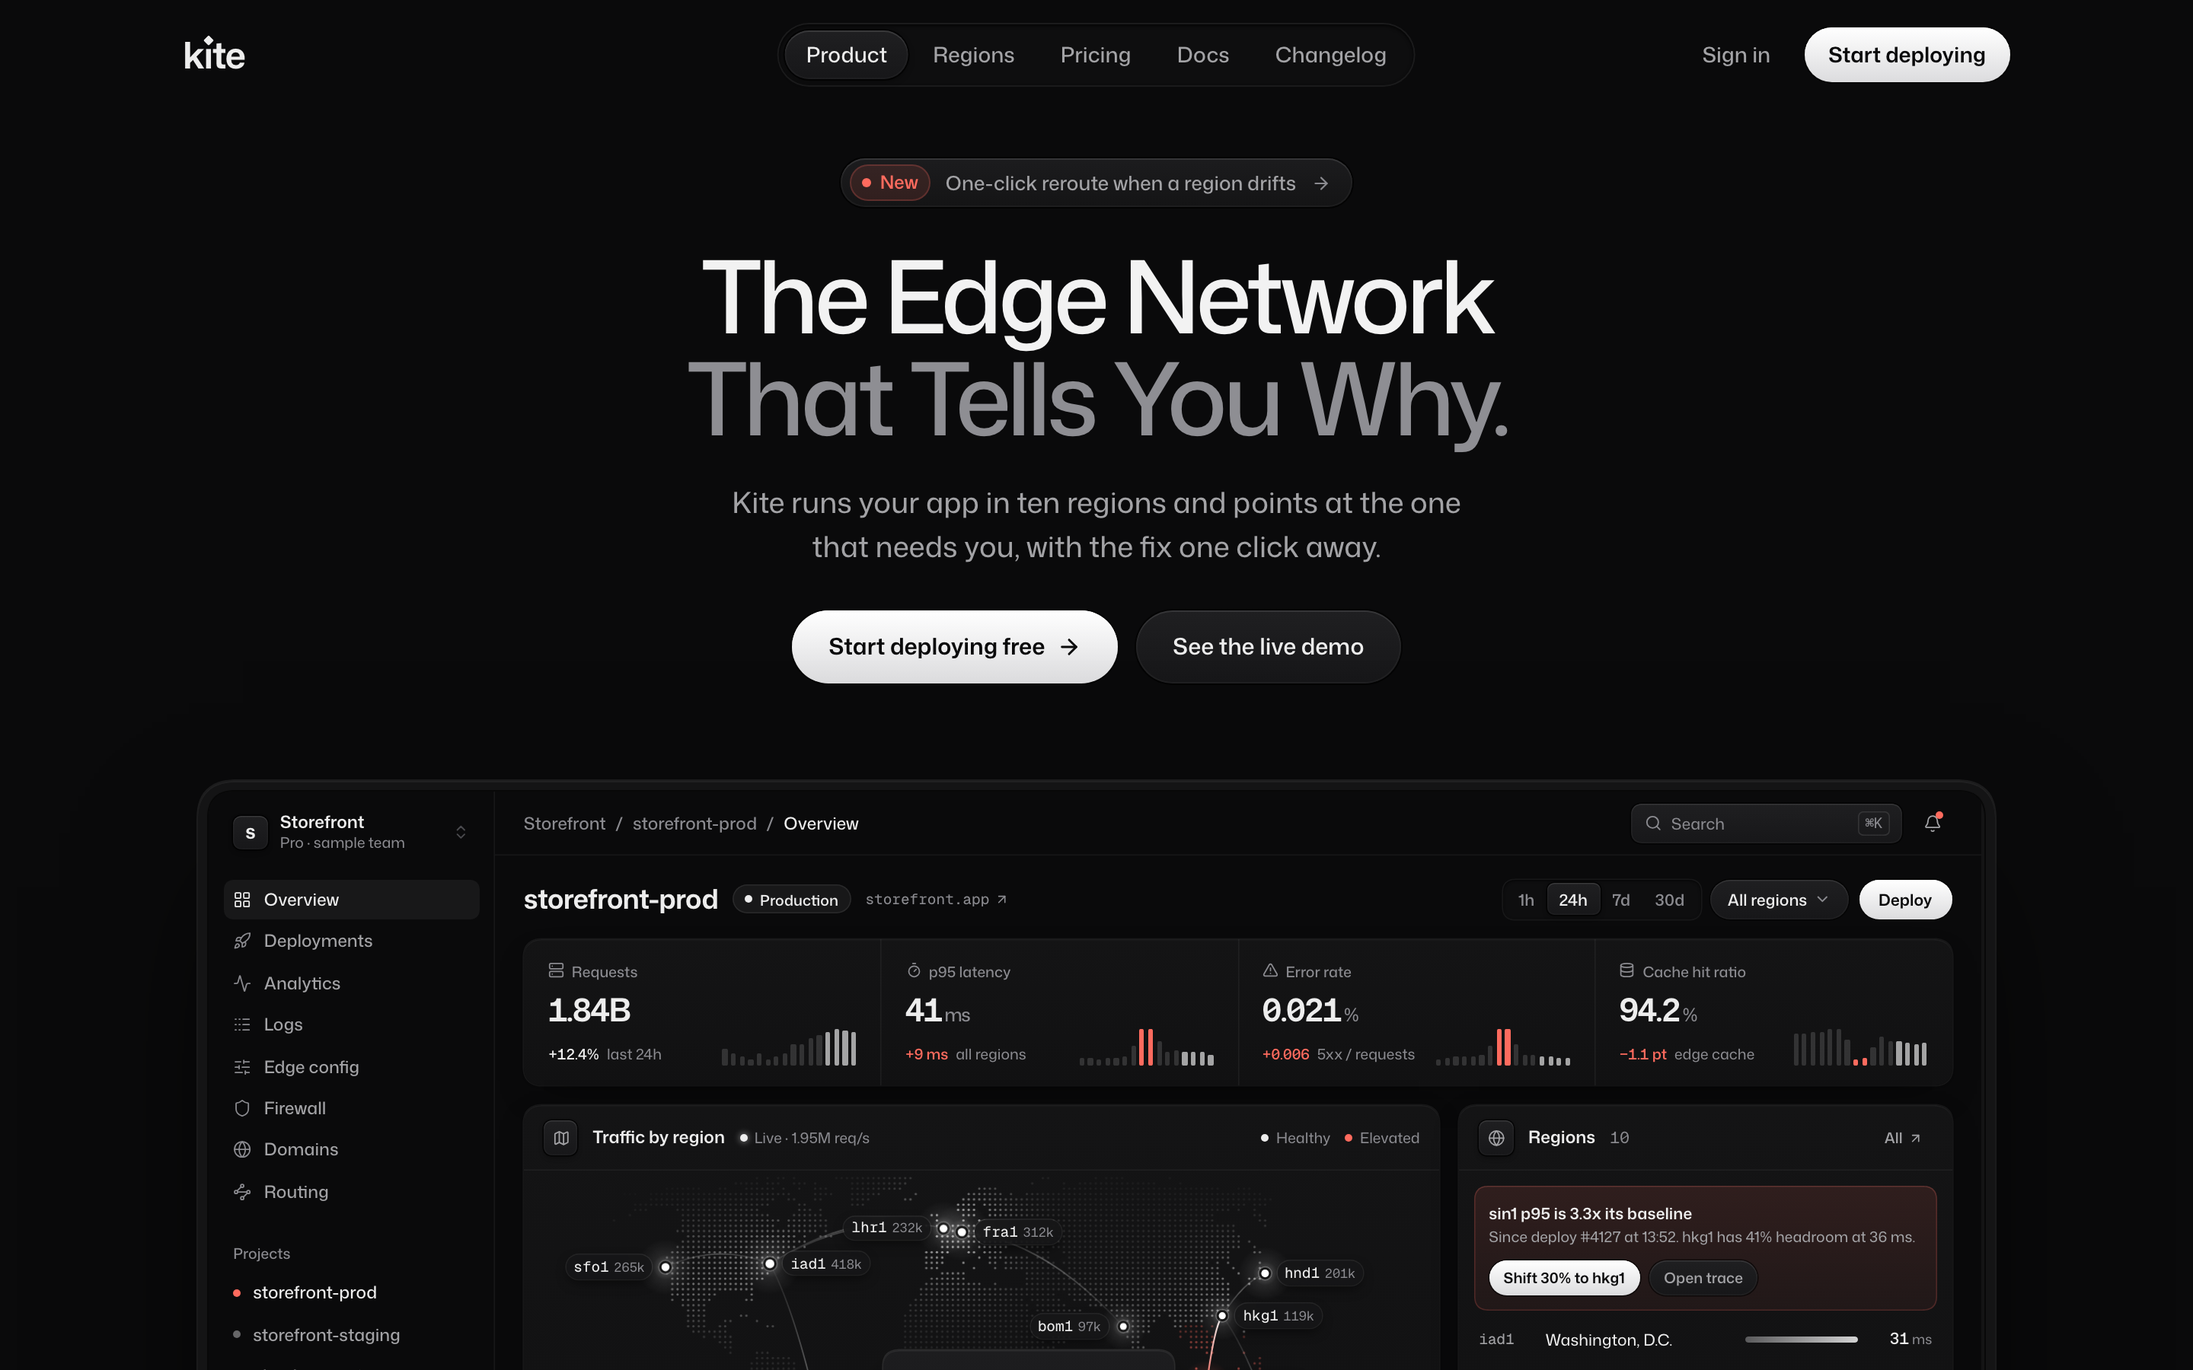
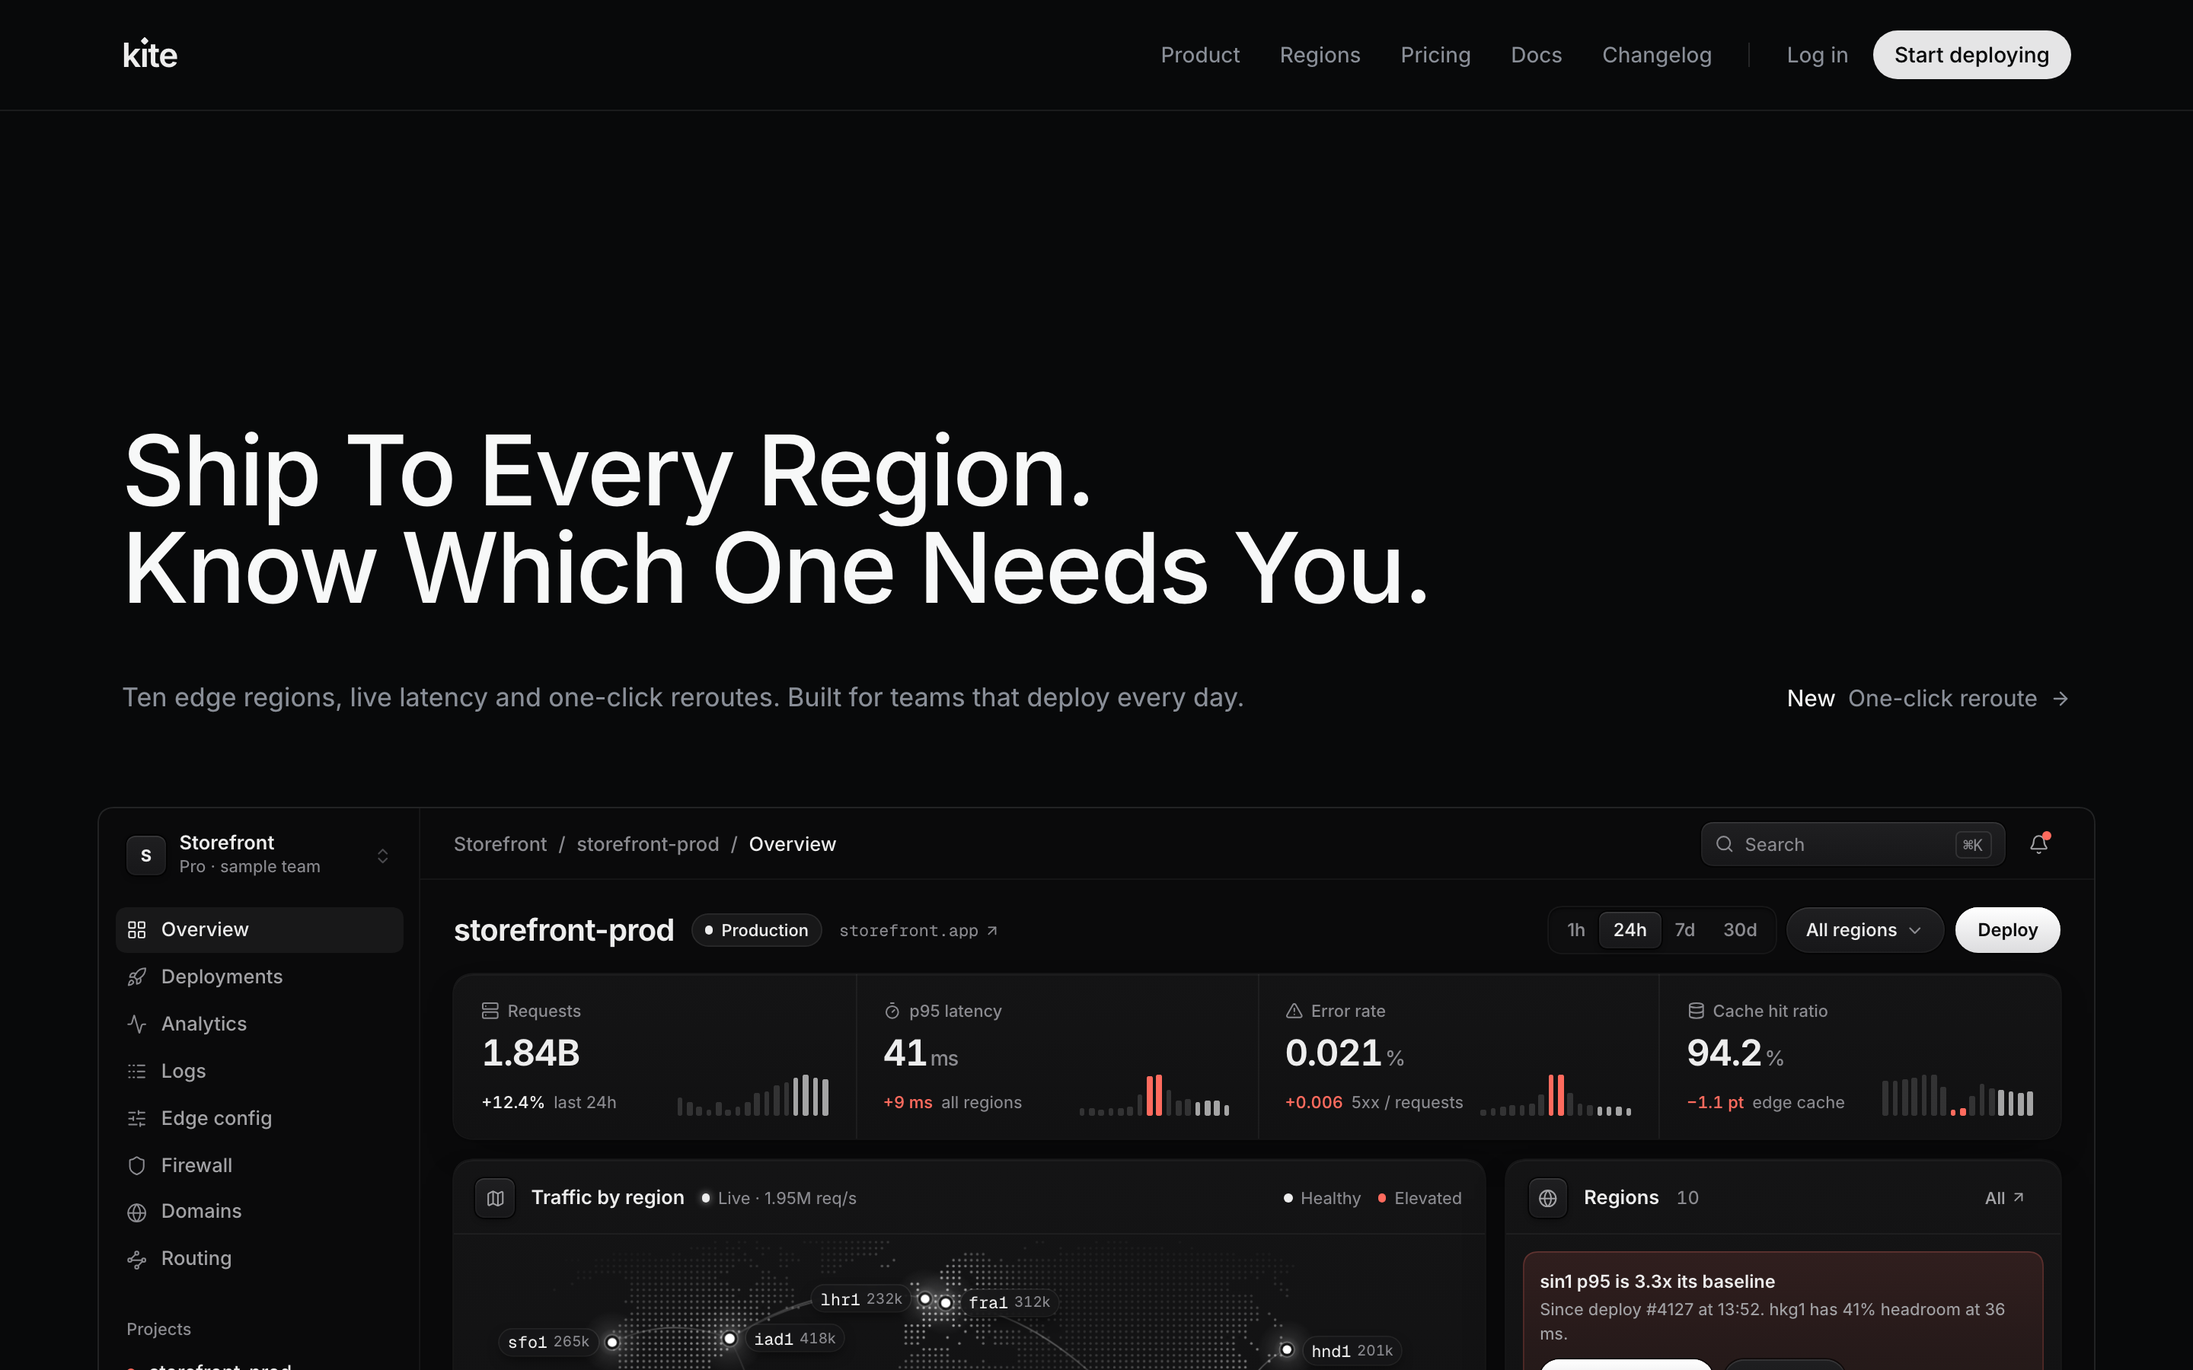
Kite hero rebuilt on Linear's measured grammar (left headline, quiet subtitle row, near full-width product frame), compared side by side

diff --git a/work/kite/app/src/Landing.tsx b/work/kite/app/src/Landing.tsx
@@ -15,116 +15,47 @@ const Word = ({ children, i }: { children: ReactNode; i: number }) => (
 const Up = ({ at, children, className = '' }: { at: number; children: ReactNode; className?: string }) => (
   <motion.div className={className} initial={{ opacity: 0, y: 16 }} animate={{ opacity: 1, y: 0 }} transition={{ delay: at, duration: 1.0, ease: ease.out }}>{children}</motion.div>
 )
-const Primary = ({ children, className = '' }: { children: ReactNode; className?: string }) => (
-  <a href="#" className={`st flex items-center gap-2 rounded-full bg-[linear-gradient(180deg,#fff,#dcdcde)] font-[600] text-[#0a0a0b] shadow-[0_0_0_1px_rgb(0_0_0/0.6),inset_0_1px_0_#fff] hover:bg-white ${className}`}>{children}</a>
-)
-const Secondary = ({ children, className = '' }: { children: ReactNode; className?: string }) => (
-  <a href="#" className={`st btn-tactile flex items-center gap-2 rounded-full font-[550] text-[var(--ink)] ${className}`}>{children}</a>
-)
-
-function Wide({ centreY }: { centreY: number }) {
-  const m = `radial-gradient(42% 46% at 50% ${centreY}px, #000 0%, transparent 100%)`
-  return <div aria-hidden className="pointer-events-none absolute inset-0 z-0" style={{ backgroundImage: 'linear-gradient(rgb(255 255 255 / 0.05) 1px, transparent 1px), linear-gradient(90deg, rgb(255 255 255 / 0.05) 1px, transparent 1px)', backgroundSize: '120px 120px', backgroundPosition: '0 -48px', maskImage: m, WebkitMaskImage: m }} />
-}
-/* backgrounds to choose from (?bg=lines|hatch|grid): all hairline-level, no glow */
-const RAIL = 'rgb(255 255 255 / 0.07)'
-function Lines({ y2 }: { y2: number }) {
-  const mark = (x: number, y: number) => <span key={`${x}-${y}`} className="absolute size-[7px] -translate-x-1/2 -translate-y-1/2 rounded-[1.5px] bg-[var(--canvas)] shadow-[0_0_0_1px_rgb(255_255_255/0.22)]" style={{ left: x, top: y }} />
-  return (
-    <div aria-hidden className="pointer-events-none absolute inset-0 z-0">
-      {[120, 1320].map((x) => <div key={x} className="absolute inset-y-0 w-px" style={{ left: x, background: RAIL }} />)}
-      {[72, y2].map((y) => <div key={y} className="absolute inset-x-0 h-px" style={{ top: y, background: RAIL }} />)}
-      {[120, 1320].flatMap((x) => [72, y2].map((y) => mark(x, y)))}
-    </div>
-  )
-}
-function Hatch() {
-  const hatch = { backgroundImage: 'repeating-linear-gradient(135deg, rgb(255 255 255 / 0.045) 0 1px, transparent 1px 8px)' }
-  return (
-    <div aria-hidden className="pointer-events-none absolute inset-0 z-0">
-      <div className="absolute inset-y-0 left-0 w-[120px]" style={hatch} /><div className="absolute inset-y-0 right-0 w-[120px]" style={hatch} />
-      {[120, 1320].map((x) => <div key={x} className="absolute inset-y-0 w-px" style={{ left: x, background: RAIL }} />)}
-      <div className="absolute inset-x-0 top-[72px] h-px" style={{ background: RAIL }} />
-    </div>
-  )
-}
-function Grid() {
-  const fade = 'linear-gradient(180deg, #000 0%, #000 35%, transparent 70%)'
-  return (
-    <div aria-hidden className="pointer-events-none absolute inset-0 z-0">
-      <div className="absolute inset-x-[120px] top-[72px] h-[560px]" style={{ backgroundImage: `linear-gradient(${RAIL} 1px, transparent 1px), linear-gradient(90deg, ${RAIL} 1px, transparent 1px)`, backgroundSize: '60px 60px', backgroundPosition: '-1px -1px', maskImage: fade, WebkitMaskImage: fade }} />
-      {[120, 1320].map((x) => <div key={x} className="absolute inset-y-0 w-px" style={{ left: x, background: RAIL }} />)}
-      <div className="absolute inset-x-0 top-[72px] h-px" style={{ background: RAIL }} />
-    </div>
-  )
-}
-
-const q = new URLSearchParams(location.search)
-const BG = (['wide', 'lines', 'hatch', 'grid'] as const).find((b) => b === q.get('bg')) ?? 'wide'
-const LAYOUT = (['centre', 'split'] as const).find((l) => l === q.get('layout')) ?? 'centre'
-
-function Title({ align }: { align: 'center' | 'left' }) {
-  return (
-    <h1 className={`text-[60px] font-[500] leading-[1.02] tracking-[-0.04em] text-[#f2f2f2] ${align === 'left' ? 'text-left' : 'text-center'}`} style={{ fontVariationSettings: '"wdth" 104' }}>
-      <Word i={0}>Latency</Word> <Word i={1}>Has</Word><br />
-      <span className="text-[#8e8e93]"><Word i={2}>An</Word> <Word i={3}>Address.</Word></span>
-    </h1>
-  )
-}
-const Ctas = ({ className = '' }: { className?: string }) => (
-  <Up at={0.6} className={`flex items-center gap-3 ${className}`}>
-    <Primary className="h-11 px-5 text-[15px]">Start deploying free<ArrowRight size={16} strokeWidth={2.2} /></Primary>
-    <Secondary className="h-11 px-5 text-[15px]">See the live demo</Secondary>
-  </Up>
-)
-
+/* Replicates Linear's hero grammar (knowledge/benchmarks/dark/linear-fold-1440x900@2x.png, linear.measure.json):
+   73px nav with a full-width 8% hairline, 1280 container, left-aligned 64/64 Inter 510 -1.4px #f7f8f8 headline,
+   one muted subtitle line with a quiet "New" link on the right, no hero buttons, the product nearly full-width in a
+   #0f1011 frame with an 8% hairline, bleeding off the fold. */
 export default function Landing() {
   const [dash, setDash] = useState(false)
-  useEffect(() => { const id = window.setTimeout(() => setDash(true), 650); return () => clearTimeout(id) }, [])
+  useEffect(() => { const id = window.setTimeout(() => setDash(true), 600); return () => clearTimeout(id) }, [])
+  const inter = { fontFamily: '"Inter Variable", system-ui, sans-serif' }
+  const FW = 1312, ZOOM = (FW - 2) / 1440
   return (
     <MotionConfig reducedMotion="user">
-      <div className="relative mx-auto h-[900px] w-[1440px] overflow-hidden bg-[var(--canvas)]">
-        {BG === 'wide' ? <Wide centreY={LAYOUT === 'centre' ? 250 : 230} /> : BG === 'lines' ? <Lines y2={LAYOUT === 'centre' ? 444 : 378} /> : BG === 'hatch' ? <Hatch /> : <Grid />}
-        {/* nav */}
-        <header className="absolute inset-x-0 top-0 z-30 mx-auto flex h-[72px] max-w-[1200px] items-center px-6">
-          <Up at={0.05}><a href="#" className="flex h-10 items-center"><Wordmark size={24} /></a></Up>
-          <nav aria-label="Main" className="absolute left-1/2 -translate-x-1/2">
-            <Up at={0.1}><ul className="flex h-10 items-center gap-0.5 rounded-full bg-[#0e0e0f] p-1 text-[14px] font-[500] text-[var(--sub)] shadow-[inset_0_1px_2px_rgb(0_0_0/0.7),0_0_0_1px_rgb(255_255_255/0.07)]">{['Product', 'Regions', 'Pricing', 'Docs', 'Changelog'].map((l, i) => <li key={l}><a href="#" aria-current={i === 0 ? 'page' : undefined} className={`st flex h-8 items-center rounded-full px-3.5 ${i === 0 ? 'tile text-[var(--ink)]' : 'hover:text-[var(--ink)]'}`}>{l}</a></li>)}</ul></Up>
-          </nav>
-          <Up at={0.15} className="ml-auto flex items-center gap-2">
-            <a href="#" className="st flex h-9 items-center rounded-[10px] px-3.5 text-[14px] font-[500] text-[var(--sub)] hover:text-[var(--ink)]">Sign in</a>
-            <Primary className="h-9 px-4 text-[14px]">Start deploying</Primary>
-          </Up>
+      <div className="relative mx-auto h-[900px] w-[1440px] overflow-hidden" style={{ background: '#08090a', ...inter }}>
+        <header className="absolute inset-x-0 top-0 z-30 h-[73px] border-b border-[rgb(255_255_255/0.08)]">
+          <div className="mx-auto flex h-full w-[1280px] items-center">
+            <a href="#" className="flex h-10 items-center"><Wordmark size={22} /></a>
+            <nav aria-label="Main" className="ml-auto flex items-center">
+              <ul className="flex items-center gap-[10px] text-[14px] text-[#8a8f98]">{['Product', 'Regions', 'Pricing', 'Docs', 'Changelog'].map((l) => <li key={l}><a href="#" className="st flex h-8 items-center px-2 hover:text-[#f7f8f8]">{l}</a></li>)}</ul>
+              <span aria-hidden className="mx-4 h-4 w-px bg-[rgb(255_255_255/0.12)]" />
+              <a href="#" className="st flex h-8 items-center px-2 text-[14px] text-[#8a8f98] hover:text-[#f7f8f8]">Log in</a>
+              <a href="#" className="st ml-2 flex h-8 items-center rounded-full bg-[#e5e5e6] px-3.5 text-[14px] font-[510] text-[#08090a] hover:bg-white">Start deploying</a>
+            </nav>
+          </div>
         </header>
 
-        {/* hero */}
-        <section className="relative z-10">
-          {LAYOUT === 'centre' ? (
-            <div className="flex flex-col items-center pt-[148px] text-center">
-              <Title align="center" />
-              <Up at={0.5} className="mt-5"><p className="text-[18px] leading-[28px] text-[var(--sub)]">Kite watches ten regions and points at the one slowing down,<br />with the fix one click away.</p></Up>
-              <Ctas className="mt-8" />
-            </div>
-          ) : (
-            <div className="mx-auto flex max-w-[1200px] items-end justify-between px-[40px] pt-[156px]">
-              <div>
-                <Title align="left" />
-                <Up at={0.5} className="mt-5"><p className="text-[18px] leading-[28px] text-[var(--sub)]">Kite watches ten regions and points at the one slowing down,<br />with the fix one click away.</p></Up>
-              </div>
-              <Ctas className="pb-1" />
-            </div>
-          )}
-          {/* the product, straight-on, plain frame */}
-          <motion.div className={`relative mx-auto w-[1180px] rounded-[26px] p-[7px] ${LAYOUT === 'centre' ? 'mt-[64px]' : 'mt-[72px]'}`} initial={{ opacity: 0, y: 60 }} animate={{ opacity: 1, y: 0 }} transition={{ delay: 0.45, duration: 1.4, ease: ease.out }}
-            style={{ background: '#141415', boxShadow: '0 0 0 1px rgb(255 255 255 / 0.08), inset 0 1px 0 rgb(255 255 255 / 0.06), 0 40px 100px -30px rgb(0 0 0 / 0.9)' }}>
-            <div role="img" aria-label="The Kite dashboard: traffic by region, latency and deployments, sample data" inert className="overflow-hidden rounded-[18px] shadow-[0_0_0_1px_rgb(0_0_0/0.6)]" style={{ height: 900 * (1164 / 1440) }}>
-              <div style={{ zoom: 1164 / 1440 }}>{dash ? <App embedded /> : <div className="h-[900px] w-[1440px] bg-[var(--canvas)]" />}</div>
-            </div>
-          </motion.div>
-          {/* bottom fade: the product dissolves into the page instead of ending hard at the fold */}
+        <section className="relative mx-auto w-[1280px] pt-[277px]">
+          <h1 className="text-[64px] font-[510] leading-[64px] tracking-[-1.4px] text-[#f7f8f8]">
+            <Word i={0}>Ship</Word> <Word i={1}>To</Word> <Word i={2}>Every</Word> <Word i={3}>Region.</Word><br />
+            <Word i={4}>Know</Word> <Word i={5}>Which</Word> <Word i={6}>One</Word> <Word i={7}>Needs</Word> <Word i={8}>You.</Word>
+          </h1>
+          <Up at={0.55} className="mt-[40px] flex items-baseline justify-between">
+            <p className="text-[17px] leading-[26px] text-[#8a8f98]">Ten edge regions, live latency and one-click reroutes. Built for teams that deploy every day.</p>
+            <a href="#" className="st group flex items-baseline gap-2 text-[15px]"><span className="text-[#f7f8f8]">New</span><span className="text-[#8a8f98] group-hover:text-[#f7f8f8]">One-click reroute</span><ArrowRight size={14} className="self-center text-[#8a8f98]" /></a>
+          </Up>
         </section>
-        <div aria-hidden className="pointer-events-none absolute inset-x-0 bottom-0 z-20 h-[150px]" style={{ background: 'linear-gradient(180deg, transparent 0%, rgb(10 10 11 / 0.75) 60%, #0a0a0b 100%)' }} />
-        <div aria-hidden className="pointer-events-none absolute inset-x-0 bottom-0 z-20 h-[90px]" style={{ backdropFilter: 'blur(5px)', WebkitBackdropFilter: 'blur(6px)', maskImage: 'linear-gradient(180deg, transparent, #000)', WebkitMaskImage: 'linear-gradient(180deg, transparent, #000)' }} />
+
+        <motion.div className="absolute left-1/2 top-[530px] -translate-x-1/2 overflow-hidden rounded-[12px] border border-[rgb(255_255_255/0.08)] bg-[#0f1011]" style={{ width: FW }}
+          initial={{ opacity: 0, y: 40 }} animate={{ opacity: 1, y: 0 }} transition={{ delay: 0.45, duration: 1.3, ease: ease.out }}>
+          <div role="img" aria-label="The Kite dashboard: traffic by region, latency and deployments, sample data" inert style={{ height: 900 * ZOOM }}>
+            <div style={{ zoom: ZOOM }}>{dash ? <App embedded /> : <div className="h-[900px] w-[1440px] bg-[var(--canvas)]" />}</div>
+          </div>
+        </motion.div>
       </div>
     </MotionConfig>
   )

diff --git a/work/kite/app/src/index.css b/work/kite/app/src/index.css
@@ -1,5 +1,6 @@
 @import "tailwindcss";
 @import "@fontsource-variable/mona-sans";
+@import "@fontsource-variable/inter";
 @import "@fontsource-variable/geist-mono";
 /* Apple continuous corners on every rounded box (founder: squircles always); pills and circles stay round */
 @import "./squircle.css";

diff --git a/knowledge/founder/founder-taste.md b/knowledge/founder/founder-taste.md
@@ -383,3 +383,10 @@ Every rule here is a direct founder verdict on real output. It outranks books, w
 - **RULE** [founder] Hero titles are short and specific, 3-5 words with an idea in them ("Latency Has An Address."), never a long category description ("The Edge Network That Tells You Why." was "too shallow and just long"). Background structure is wide-spaced (120px grid cells, kept around the copy, away from the product), never dense patterns close to the content. The product dissolves into the page at the fold with a short fade + light blur (~150px), never a hard cut and never eating the signature visual.
   **Why** Founder on the Kite hero variants: "layout good - copy ass, the title too shallow and just long, and bg a bit stupid and too close, and no bottom blur or something".
   **Applies to** SaaS heroes. **Check** h1 <= 5 words; background cell size >= 100px and masked off the product; bottom fade 120-180px. **Source** founder, 2026-10-14, Kite hero
+
+- **RULE** [founder] Product flows inside an existing app (Sellify Video Ad Creator, 2026-10-14) use ONE container grammar on every screen: a grey tray (radius 20, 4px inset, ring) with its title strip on the grey (plain 16px secondary icon + title + soft meta + action right; never a black icon tile), white cards inside (radius 16, 1px ink-alpha ring, no shadow), secondary info and actions on a tray footer strip; fields inside white cards use the app's own grey "work" input surface via the component's prop (never white inputs on white, never `!important` overrides); type only from the app's tuned scale (Geist 12/14/18 at 450/500, the app's letter-spacing tokens, no 13px/600 off-scale sizes); video media is 9:16 in galleries and the preview, but list-row thumbnails are square crops (a narrow 9:16 sliver reads as a capsule); status is an outlined chip with a coloured dot, never a coloured icon tile or check badge.
+  **Why** Founder on rounds 1-4: "out of place not nice nor consistent", "wtf is with aspect ratios", "those little black icon boxes don't look good enough nor geist... configured good enough", "white bg then gray input box... like we have in our design language", "entire flow, containers everything properly consistently built". Reference: affectUI blocks (knowledge/benchmarks/flohoeller/affectui-blocks-*).
+  **Applies to** product UI built inside a client app. **Check** every section renders through one panel component; zero white inputs inside white cards; font sizes in the flow ⊆ the app scale; no row thumbnail narrower than 9:16 at < 64px wide. **Source** founder, Sellify ENG-2079 redesign, 2026-10-14
+- **RULE** [founder] When a hero keeps missing, stop iterating blind: pick a measured reference (knowledge/benchmarks/dark/*.measure.json + fold png) and replicate its grammar exactly (positions, type tuple, nav, frame), then swap in our content and judge with `tools/compare.mjs` side by side. For dark product heroes the default reference is Linear: 73px nav + full-width 8% hairline, 1280 container, left-aligned 64/64 Inter 510 -1.4px #f7f8f8 headline at y=277, one muted subtitle line at y=445 with a quiet "New → link" right, no hero buttons, product frame #0f1011 + 8% hairline r12 at y=530 bleeding off the fold.
+  **Why** Founder after six Kite hero rounds (glows, globe, textures, chips, centred stacks): "so bad now I have no words bro... find some example online and replicate".
+  **Applies to** heroes after two rejected rounds. **Check** compare.mjs side-by-side saved in the work folder; headline/subtitle/frame tops within 10px of the reference. **Source** founder, 2026-10-14, Kite hero
